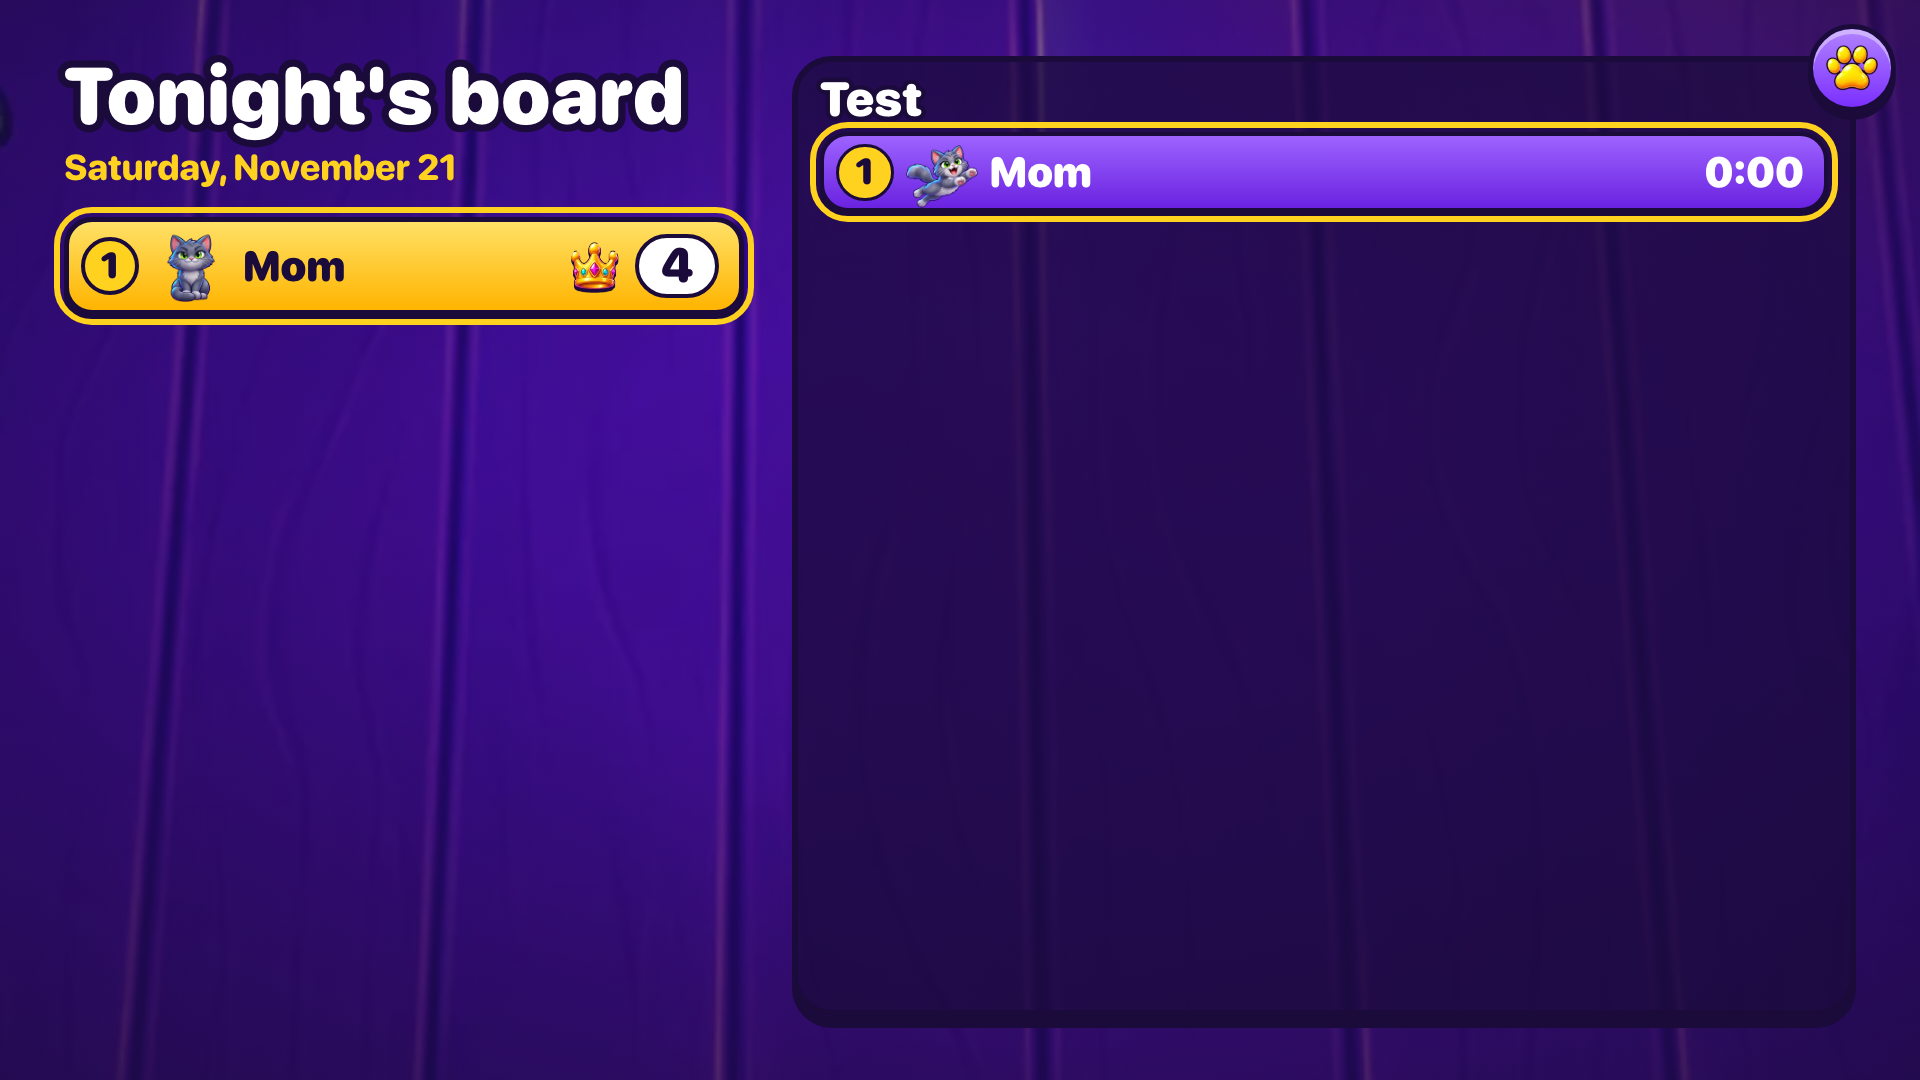
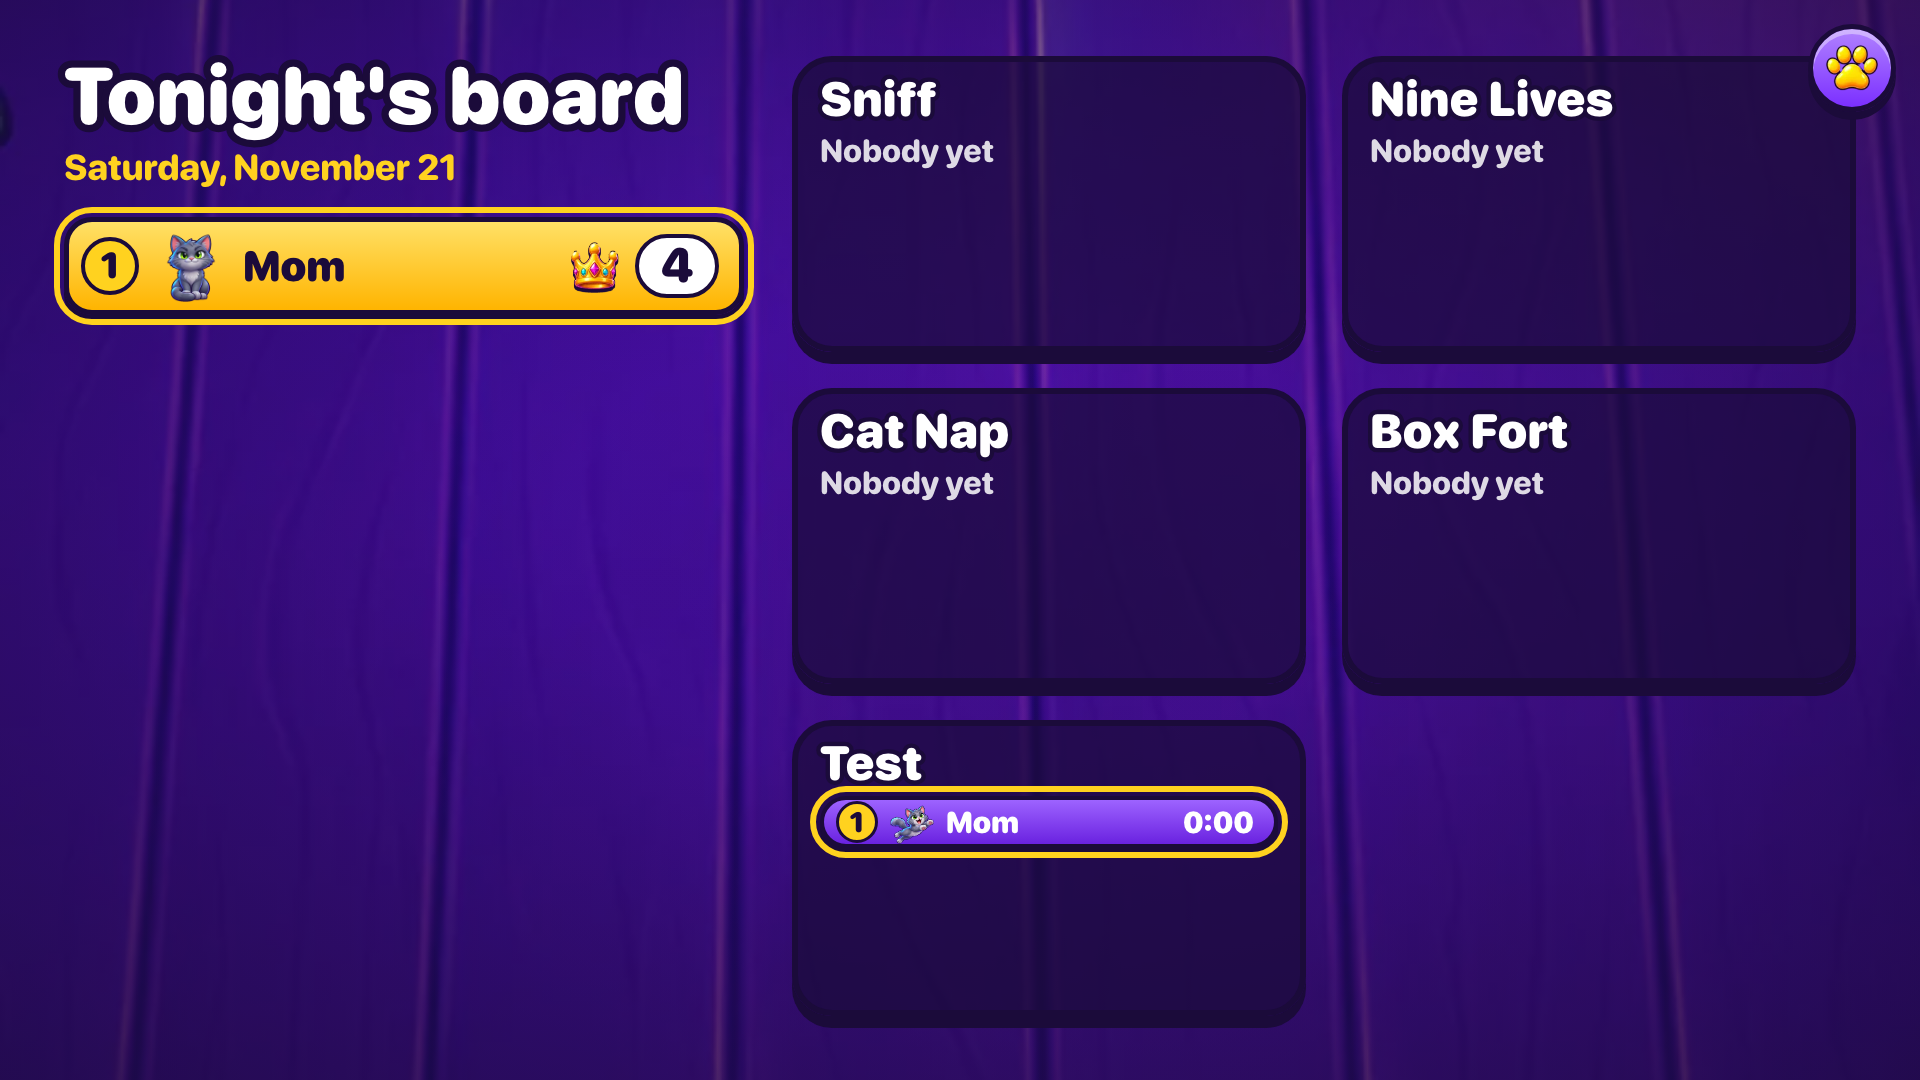
test(tv): every daily game watched on the browser TV, and a phone's own link
Each game's run is watched end to end (card, its own view redrawn by a move,
fits 1080p, watchEnd, back to the board). A browser phone links the board from
its Dish, sees the TV come (Unlink), and its finished run cheers on the TV. The
family board adds a tie and big numbers. The watch stage is a box of known size
for the views; five or six games lay out 2 x 3 on both TVs.

Changed region(s): [[0.4062, 0.0306, 0.9688, 0.9778]]

diff --git a/apps/play-web/e2e/tv-board.spec.ts b/apps/play-web/e2e/tv-board.spec.ts
@@ -2,7 +2,8 @@ import { mkdirSync } from "node:fs";
 
 import { expect, test, type Page } from "@playwright/test";
 
-import { dailyPhone, type DailyPhone } from "./daily-phone";
+import { dailyPhone, firstMove, type DailyPhone } from "./daily-phone";
+import { closeAll, newPlayer } from "./helpers";
 import { openTv, shownLink, tvPage, TV_VIEWPORT, type Tv } from "./tv-helpers";
 
 import type { BoardAnswer } from "@pounce/play-api/daily/messages";
@@ -183,9 +184,84 @@ test.describe("Tonight's board on the TV", () => {
     await expect(board(tv.page)).toBeHidden();
     await tv.context.close();
   });
+  test("a phone's Dish puts the board on the TV, shows it's on, and its run lands live", async ({ browser }) => {
+    const tv = await openTv(browser);
+    const jo = await newPlayer(browser, "Jo");
+    const { page } = jo;
+    await page.getByRole("button", { name: "Open the Dish" }).click();
+    const tip = page.getByRole("button", { name: "Dismiss tip" });
+    if (await tip.isVisible()) await tip.click();
+    await expect(page.getByRole("button", { name: "Unlink" })).toHaveCount(0);
+    await page.getByRole("button", { name: "Show board on TV" }).click();
+    await boardPoster(tv.page).click();
+    const { code } = await shownLink(tv, ".tv-board-link");
+    await page.getByLabel("TV code").fill(code);
+    await page.getByRole("button", { name: "Show", exact: true }).click();
+    await expect(page.getByText("On the TV")).toBeVisible();
+    await expect(board(tv.page)).toBeVisible();
+    // The phone hears the TV come (`tvs`): Unlink appears on its Dish.
+    await expect(page.getByRole("button", { name: "Unlink" })).toBeVisible();
+    // Jo finishes a run on the phone; the TV's board cheers it as it lands.
+    await page.goto("/play/daily/test");
+    const step = page.getByRole("button", { name: "Step" });
+    await expect(page.getByTestId("test-count")).toBeVisible();
+    while (await step.isEnabled()) await step.click();
+    await expect(row(tv.page, "test")).toHaveClass(/cheer/);
+    await expect(row(tv.page, "test").locator(".tv-row-result")).toHaveText(/^\d+:\d{2}$/);
+    await closeAll(tv.context, jo.context);
+  });
+
+  for (const [game, title] of [
+    ["sniff", "Sniff"],
+    ["nine-lives", "Nine Lives"],
+    ["cat-nap", "Cat Nap"],
+    ["box-fort", "Box Fort"],
+  ] as const) {
+    test(`watching ${title}: the card, its own view live at 1080p, and its end`, async ({ browser }) => {
+      const tv = await openTv(browser);
+      const mom = await dailyPhone("Mom", 3);
+      await linked(tv, mom);
+      expect((await mom.board()).tvs, "the phone's board counts the TV").toBe(1);
+      const begun = await mom.begin(game);
+      expect(await mom.showOnTv(begun.run, true)).toBe(204);
+      await expect(tv.page.locator(".tv-watch-card")).toContainText(`Mom is playing ${title}. Spoilers.`);
+      await expect(tv.page.getByRole("button", { name: "Not now" })).toBeFocused();
+      await tv.page.keyboard.press("ArrowLeft");
+      await tv.page.keyboard.press("Enter");
+      const stage = tv.page.locator(`.tv-watch[data-game="${game}"] .tv-watch-stage`);
+      // The game's own view (the registry's, in its own chunk), not the placeholder.
+      await expect(stage.locator(".tv-watch-placeholder")).toHaveCount(0);
+      await expect.poll(() => stage.evaluate((el) => el.querySelectorAll("*").length)).toBeGreaterThan(3);
+      const before = await stage.innerHTML();
+      const sent = await mom.send(begun.run, begun.seq, [firstMove(game, begun)]);
+      expect(sent.ok).toBe(true);
+      // The next frame redraws it.
+      await expect.poll(() => stage.innerHTML()).not.toBe(before);
+      await shot(tv.page, `watch-${game}`);
+      // It fits 1080p: nothing past the stage (but a few pixels of a tilted tag) or off the screen.
+      const fits = await stage.evaluate((el) => {
+        const box = el.getBoundingClientRect();
+        const slack = 6;
+        const out = [...el.querySelectorAll("*")]
+          .map((d) => ({ d, r: d.getBoundingClientRect() }))
+          .filter(({ r }) => r.width > 0 && (r.left < box.left - slack || r.right > box.right + slack || r.top < box.top - slack || r.bottom > box.bottom + slack || r.top < 0 || r.bottom > innerHeight));
+        return out.map(({ d, r }) => `${d.tagName}.${d.getAttribute("class")}:${Math.round(r.left)},${Math.round(r.top)},${Math.round(r.right)},${Math.round(r.bottom)}`).slice(0, 5);
+      });
+      expect(fits, `${title}'s watch view fits its stage at 1080p`).toEqual([]);
+      // The run ends (a solve, or given up here): `watchEnd`, its result over the last frame, then the
+      // board. (A run this quick is `tooFast`, so it stays off the board.)
+      if (!sent.result) expect(await mom.giveUp(begun.run)).toBe(200);
+      await expect(tv.page.locator(".tv-watch-ended")).toContainText(sent.result ? /\S/ : "Gave up");
+      await expect(board(tv.page)).toBeVisible({ timeout: 10_000 });
+      await tv.context.close();
+    });
+  }
 });
 
-/** A family of six across the four games, everyone done in some and playing in others. */
+/**
+ * A family of six across the four games, everyone done in some and playing in others: Dad and Kid
+ * tie for second in Sniff, Mom has two crowns, and the numbers run big (12,840 points, an hour).
+ */
 function familyBoard(): BoardAnswer {
   const people = [
     ["me", "Mom", 3],
@@ -208,7 +284,7 @@ function familyBoard(): BoardAnswer {
     ...(game === "sniff" ? { guesses: 3 + (i % 4) } : {}),
     ...(game === "box-fort" ? { points: 2400 - i * 310 } : {}),
   });
-  return {
+  const answer: BoardAnswer = {
     date: "2026-11-23",
     games: games.map((game, g) => ({
       game,
@@ -220,6 +296,11 @@ function familyBoard(): BoardAnswer {
     dish: { rows: people.map(([player, name, cat], i) => ({ player, name, cat, rank: i + 1, points: 16 - i * 3, crowns: i === 0 ? ["sniff", "nine-lives"] : [], ended: 4 })) },
     tvs: 1,
   };
+  const [sniff, nineLives, , boxFort] = answer.games;
+  sniff!.rows[2] = { ...sniff!.rows[2]!, rank: 2, result: { ...sniff!.rows[2]!.result!, guesses: sniff!.rows[1]!.result!.guesses } };
+  nineLives!.rows[1] = { ...nineLives!.rows[1]!, result: { ...nineLives!.rows[1]!.result!, timeMs: 3_725_000 } };
+  boxFort!.rows[0] = { ...boxFort!.rows[0]!, result: { ...boxFort!.rows[0]!.result!, points: 12_840 } };
+  return answer;
 }
 
 test("a whole family fits each game's board, nothing under 28 at 1080p", async ({ browser }) => {
@@ -244,25 +325,30 @@ test("a whole family fits each game's board, nothing under 28 at 1080p", async (
     }));
     expect(size.sh <= size.ch + 1 && size.sw <= size.cw + 1, `the card holds six rows: ${JSON.stringify(size)}`).toBe(true);
   }
+  // Ties share a rank; the crowns and the big numbers show, whole.
+  await expect(page.locator('.tv-board-game[data-game="sniff"] .tv-rank')).toHaveText(["1", "2", "2", "4", "5", "6"]);
+  await expect(page.locator(".tv-dish-crowns img")).toHaveCount(2);
+  await expect(page.locator('.tv-board-game[data-game="box-fort"] .tv-row-result').first()).toHaveText("12,840");
+  await expect(page.locator('.tv-board-game[data-game="nine-lives"] .tv-row-result').nth(1)).toHaveText("1:02:05");
   const smallest = await page.locator(".tv-board-row .tv-row-name, .tv-board-row .tv-row-result, .tv-board-row .tv-rank").evaluateAll((els) => Math.min(...els.map((e) => parseFloat(getComputedStyle(e).fontSize))));
   expect(smallest, "the smallest row text, px at 1080p").toBeGreaterThanOrEqual(28);
   await shot(page, "board-family");
   await context.close();
 });
 
-test("a game whose watch view hasn't landed shows its name while someone plays", async ({ browser }) => {
+test("a game this build has no watch view for shows a placeholder while someone plays", async ({ browser }) => {
   const context = await browser.newContext({ viewport: TV_VIEWPORT, isMobile: false, hasTouch: false });
   await context.addInitScript(() => localStorage.setItem("pounce.tv.board", JSON.stringify({ token: "F".repeat(22), until: Date.now() + 86_400_000 })));
   await context.routeWebSocket(/\/v1\/daily\/board\/ws/, (ws) => {
     ws.send(JSON.stringify({ t: "board", board: familyBoard() }));
-    ws.send(JSON.stringify({ t: "watchOffer", player: "pr_mom", name: "Mom", cat: 3, game: "sniff" }));
-    ws.send(JSON.stringify({ t: "watch", player: "pr_mom", game: "sniff", puzzle: {}, state: {} }));
+    ws.send(JSON.stringify({ t: "watchOffer", player: "pr_mom", name: "Mom", cat: 3, game: "yarn-ball" }));
+    ws.send(JSON.stringify({ t: "watch", player: "pr_mom", game: "yarn-ball", puzzle: {}, state: {} }));
   });
   const page = await tvPage(context);
   await expect(page.getByRole("button", { name: "Not now" })).toBeFocused();
   await page.keyboard.press("ArrowLeft");
   await page.keyboard.press("Enter");
-  const watching = page.locator('.tv-watch[data-game="sniff"]');
-  await expect(watching.locator(".tv-watch-placeholder")).toContainText("Sniff");
+  const watching = page.locator('.tv-watch[data-game="yarn-ball"]');
+  await expect(watching.locator(".tv-watch-placeholder")).toBeVisible();
   await context.close();
 });

diff --git a/apps/play-web/e2e/daily-phone.ts b/apps/play-web/e2e/daily-phone.ts
@@ -1,8 +1,13 @@
 import { randomBytes, randomUUID } from "node:crypto";
 
 import { expect } from "@playwright/test";
+import { greedyMove } from "@pounce/play-api/daily/box-fort/greedy";
 
 import { BASE } from "../playwright.config";
+
+import type { BoxFortPublicState } from "@pounce/play-api/daily/box-fort/module";
+import type { BoardAnswer } from "@pounce/play-api/daily/messages";
+import type { DailyResult } from "@pounce/play-api/daily/module";
 
 /**
  * A phone playing the Daily Dish, over plain HTTP (docs/daily-protocol.md): a device of its own,
@@ -20,7 +25,41 @@ export type DailyPhone = {
   start(): Promise<{ run: string; target: number }>;
   moves(run: string, from: number, to: number): Promise<{ ok: boolean; result: unknown }>;
   showOnTv(run: string, on: boolean): Promise<number>;
+  /** Starts today's `game`: its run, public puzzle and public state. */
+  begin(game: string): Promise<Begun>;
+  /** One batch of the game's own moves from `from`, as the server answers it. */
+  send(run: string, from: number, moves: unknown[]): Promise<{ ok: boolean; seq: number; result: DailyResult | null }>;
+  giveUp(run: string): Promise<number>;
+  /** `GET /v1/daily/board`: tonight's board as this person sees it, `tvs` included. */
+  board(): Promise<BoardAnswer>;
 };
+
+export type Begun = { run: string; puzzle: unknown; state: unknown; seq: number };
+
+/**
+ * A first move each daily game accepts, from its start: Sniff's guess, a digit in Nine Lives' first
+ * open cell (a clash is legal), an x on Cat Nap's first cell, and Box Fort's greedy placement.
+ */
+export function firstMove(game: string, begun: Begun): unknown {
+  switch (game) {
+    case "sniff":
+      return { k: "guess", word: "large" };
+    case "nine-lives": {
+      const givens = (begun.puzzle as { givens: number[] }).givens;
+      return { k: "set", i: givens.indexOf(0), d: 1 };
+    }
+    case "cat-nap":
+      return { k: "mark", cells: [0], to: "x" };
+    case "box-fort": {
+      const s = begun.state as BoxFortPublicState;
+      const move = greedyMove(s.rug, s.pieces, s.placed);
+      if (!move) throw new Error("no Box Fort placement");
+      return move;
+    }
+    default:
+      throw new Error(`no first move for ${game}`);
+  }
+}
 
 let address = 0;
 
@@ -61,5 +100,21 @@ export async function dailyPhone(name: string, cat = 3): Promise<DailyPhone> {
       return (await res.json()) as { ok: boolean; result: unknown };
     },
     showOnTv: async (run, on) => (await call("PUT", `/v1/daily/runs/${run}/tv${q}`, { on })).status,
+    async begin(game) {
+      const res = await call("POST", `/v1/daily/${game}/start${q}`);
+      expect(res.status, `${game} is on the server`).toBe(200);
+      return (await res.json()) as Begun;
+    },
+    async send(run, from, moves) {
+      const res = await call("POST", `/v1/daily/runs/${run}/moves${q}`, { from, moves });
+      expect(res.status).toBe(200);
+      return (await res.json()) as { ok: boolean; seq: number; result: DailyResult | null };
+    },
+    giveUp: async (run) => (await call("POST", `/v1/daily/runs/${run}/giveup${q}`)).status,
+    async board() {
+      const res = await call("GET", `/v1/daily/board${q}`);
+      expect(res.status).toBe(200);
+      return (await res.json()) as BoardAnswer;
+    },
   };
 }

diff --git a/apps/play-ios/PounceTV/Shell/BoardView.swift b/apps/play-ios/PounceTV/Shell/BoardView.swift
@@ -156,12 +156,14 @@ private struct Games: View {
     let games: [DailyGameBoard]
     let cheer: TVBoardState.Cheer?
 
-    /// One game fills the space, two sit side by side, three or four in a 2 x 2 grid. Each card
-    /// shows up to six people, its rows as tall as its height allows.
+    /// One game fills the space, two sit side by side, three or four in a 2 x 2 grid, five or six (a
+    /// test server's extra game) in 2 x 3. Each card shows up to six people, its rows as tall as its
+    /// height allows.
     var body: some View {
         GeometryReader { g in
-            let columns = games.count <= 1 ? 1 : 2
-            let rows = games.count <= 2 ? 1 : 2
+            let shown = Array(games.prefix(6))
+            let columns = shown.count <= 1 ? 1 : 2
+            let rows = max(1, (shown.count + columns - 1) / columns)
             let gap: CGFloat = 32
             let w = (g.size.width - gap * CGFloat(columns - 1)) / CGFloat(columns)
             let h = (g.size.height - gap * CGFloat(rows - 1)) / CGFloat(rows)
@@ -172,8 +174,8 @@ private struct Games: View {
                     HStack(spacing: gap) {
                         ForEach(0..<columns, id: \.self) { c in
                             let i = r * columns + c
-                            if i < games.count {
-                                GameCard(game: games[i], cheer: cheer, rowHeight: rowH)
+                            if i < shown.count {
+                                GameCard(game: shown[i], cheer: cheer, rowHeight: rowH)
                                     .frame(width: w, height: h)
                             } else {
                                 Color.clear.frame(width: w, height: h)

diff --git a/apps/play-web/src/ui/tv/tv-board.css b/apps/play-web/src/ui/tv/tv-board.css
@@ -203,7 +203,8 @@ img.tv-rank.playing {
   font-size: calc(var(--u) * 48);
 }
 
-/* One card per game: one fills the height, two side by side, three or four in a 2 x 2 grid. */
+/* One card per game: one fills the height, two side by side, three or four in a 2 x 2 grid, five or
+   six (a test server's extra game) in 2 x 3. */
 .tv-board-games {
   display: grid;
   gap: calc(var(--u) * 36);
@@ -223,6 +224,11 @@ img.tv-rank.playing {
 .tv-board-games.n4 {
   grid-template-columns: 1fr 1fr;
   grid-template-rows: 1fr 1fr;
+}
+
+.tv-board-games.n5 {
+  grid-template-columns: 1fr 1fr;
+  grid-template-rows: 1fr 1fr 1fr;
 }
 
 .tv-board-game {
@@ -520,9 +526,12 @@ img.tv-rank.playing {
   flex: 1;
 }
 
+/* The game's watch view gets the whole stage as a box of known size: its root fills it (width and
+   height 100%, as in the Dish), or sits centred if it's smaller. */
 .tv-watch-stage {
   display: grid;
   flex: 1;
+  grid-template: minmax(0, 1fr) / minmax(0, 1fr);
   place-items: center;
   min-height: 0;
 }

diff --git a/apps/play-web/src/ui/tv/tv-board.tsx b/apps/play-web/src/ui/tv/tv-board.tsx
@@ -122,7 +122,7 @@ export function TvBoard(props: { screen: BoardScreen; connecting: boolean }) {
         <p class="tv-dish-day">{board ? boardDay(board.date) : " "}</p>
         <Dish board={board} cheer={cheer} connecting={props.connecting} />
       </aside>
-      <div class={`tv-board-games n${Math.max(1, Math.min(games.length, 4))}`}>
+      <div class={`tv-board-games n${Math.max(1, Math.min(games.length, 5))}`}>
         {games.map((g) => (
           <GameCard key={g.game} game={g} cheer={cheer} max={ROWS_SHOWN} />
         ))}
